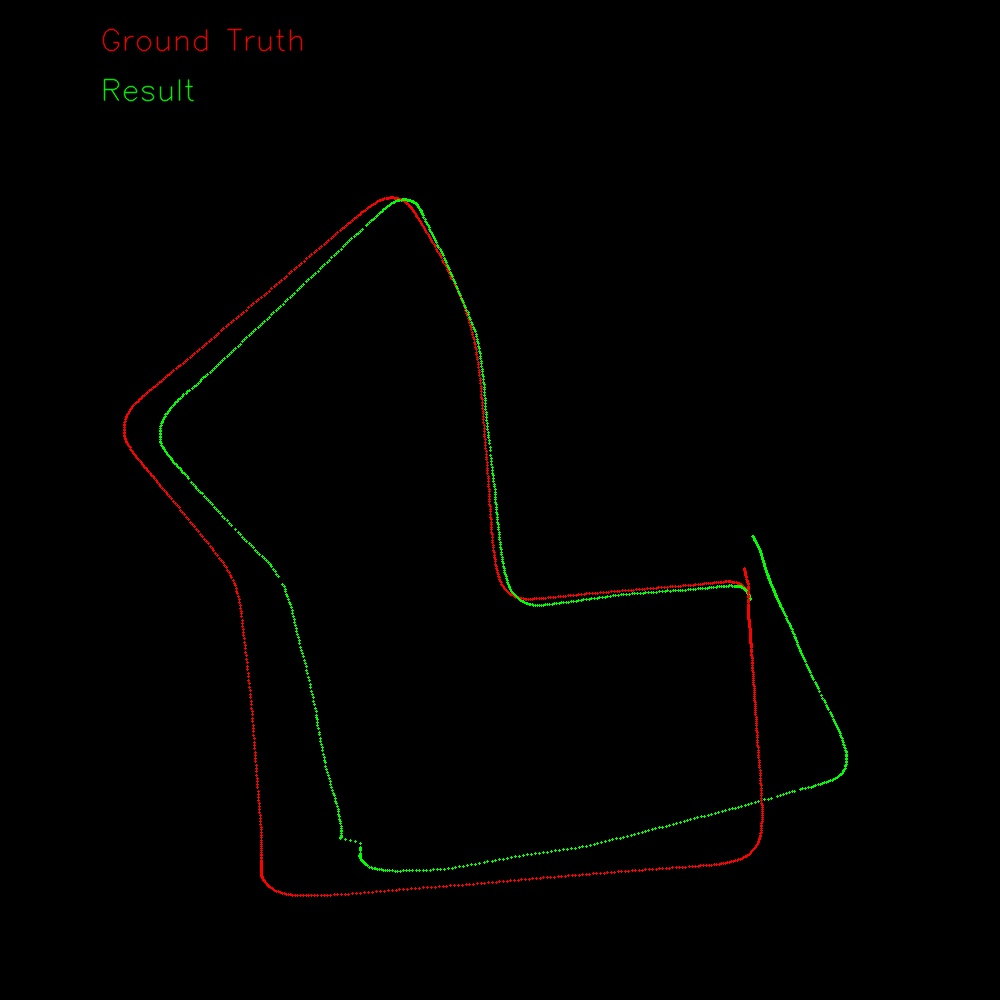
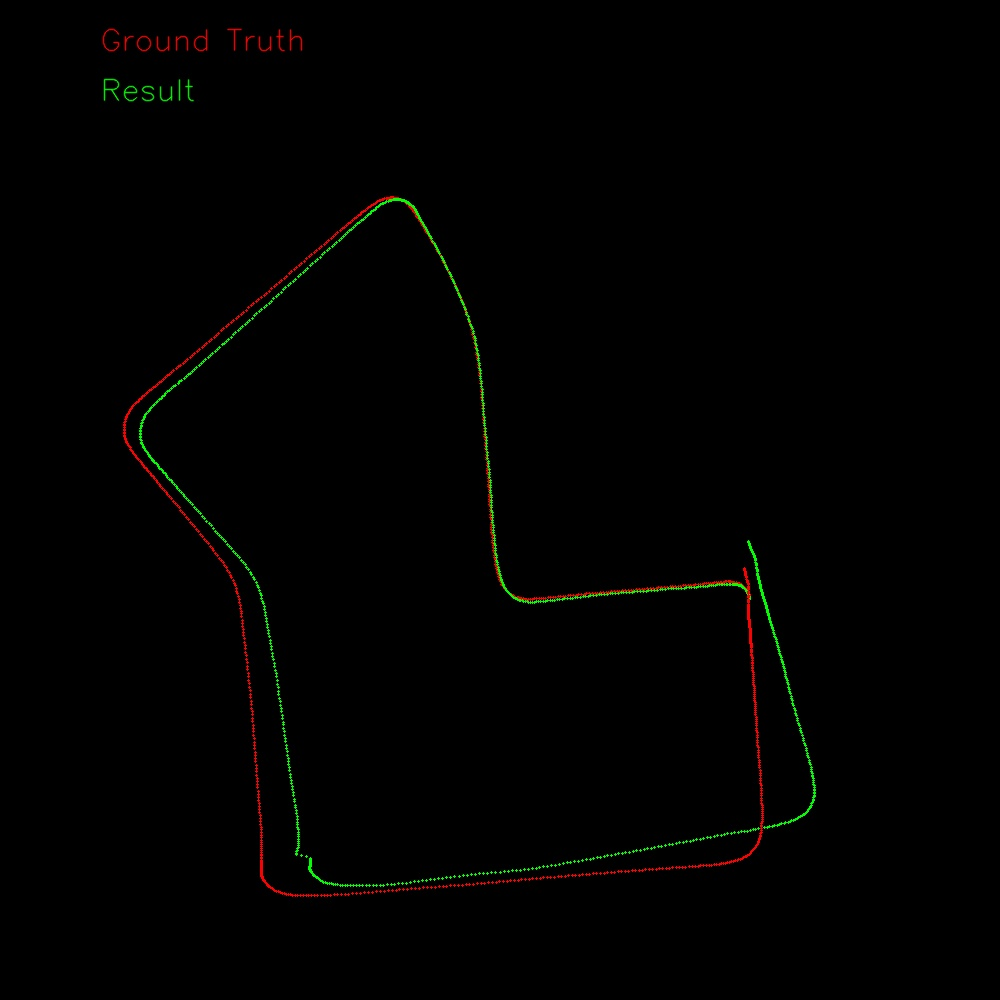
use solvePnPRefineLM

diff --git a/examples/kitti_odometry.cpp b/examples/kitti_odometry.cpp
@@ -16,6 +16,9 @@ int main()
     cv::Mat resultImage(1000, 1000, CV_8UC3, cv::Scalar(0, 0, 0));
     cv::putText(resultImage, "Ground Truth", cv::Point(100, 50), cv::FONT_HERSHEY_SIMPLEX, 1, cv::Scalar(0, 0, 255), 1, cv::LINE_AA);
     cv::putText(resultImage, "Result", cv::Point(100, 100), cv::FONT_HERSHEY_SIMPLEX, 1, cv::Scalar(0, 255, 0), 1, cv::LINE_AA);
+    const double resultScale = 0.3;
+    const double resultCx = 750.0;
+    const double resultCz = 600.0;
 
     std::string scene = "07";
     std::string imageLeftPath = "../resources/sequences/" + scene + "/image_0/";
@@ -73,8 +76,8 @@ int main()
         std::chrono::system_clock::time_point EndTime = std::chrono::system_clock::now();
         std::cout << "elapsed time(milliseconds) : " << std::chrono::duration_cast<std::chrono::milliseconds>(EndTime - StartTime).count() << "\n";
 
-        int x = static_cast<int>(framePrev.pose.at<double>(0, 3) / 0.3 + 750.0);
-        int z = static_cast<int>(-framePrev.pose.at<double>(2, 3) / 0.3 + 600.0);
+        int x = static_cast<int>(framePrev.pose.at<double>(0, 3) / resultScale + resultCx);
+        int z = static_cast<int>(-framePrev.pose.at<double>(2, 3) / resultScale + resultCz);
 
         cv::circle(resultImage, cv::Point(x, z), 1, cv::Scalar(0, 255, 0), cv::FILLED);
 
@@ -82,15 +85,15 @@ int main()
         std::stringstream ss(line);
         ss >> value >> value >> value >> xPose >> value >> value >> value >> value >> value >> value >> value >> zPose;
 
-        int xPoseInt = static_cast<int>(xPose / 0.3 + 750.0);
-        int zPoseInt = static_cast<int>(-zPose / 0.3 + 600.0);
+        int xPoseInt = static_cast<int>(xPose / resultScale + resultCx);
+        int zPoseInt = static_cast<int>(-zPose / resultScale + resultCz);
         cv::circle(resultImage, cv::Point(xPoseInt, zPoseInt), 1, cv::Scalar(0, 0, 255), cv::FILLED);
 
         cv::imshow("result", resultImage);
         cv::waitKey(1);
     }
 
-    cv::imwrite("../result/scene" + scene + "_result.jpg", resultImage);
+    cv::imwrite("../build/scene" + scene + "_result.jpg", resultImage);
 
     return 0;
 }

diff --git a/modules/visual_odometry/src/MotionEstimation.cpp b/modules/visual_odometry/src/MotionEstimation.cpp
@@ -56,10 +56,20 @@ namespace VO
             frame2.unmatchedIndices.erase(trainIdx);
         }
 
-        cv::Mat rvec, tvec;
+        cv::Mat rvec, tvec, inliers;
         try
         {
-            cv::solvePnPRansac(matchedPoints3D_1, matchedPoints2D_2, cameraMatrix, cv::Mat(), rvec, tvec, 10.0);
+            cv::solvePnPRansac(matchedPoints3D_1, matchedPoints2D_2, cameraMatrix, cv::Mat(), rvec, tvec, false, 100, 4.0f, 0.99, inliers);
+            std::vector<cv::Point3d> inlierPoints3D(inliers.rows);
+            std::vector<cv::Point2d> inlierPoints2D(inliers.rows);
+
+            for(int i = 0; i < inliers.rows; ++i)
+            {
+                int idx = inliers.at<int>(i);
+                inlierPoints3D[i] = matchedPoints3D_1[idx];
+                inlierPoints2D[i] = matchedPoints2D_2[idx];
+            }
+            cv::solvePnPRefineLM(inlierPoints3D, inlierPoints2D, cameraMatrix, cv::Mat(), rvec, tvec);
         }
         catch (cv::Exception &e)
         {
